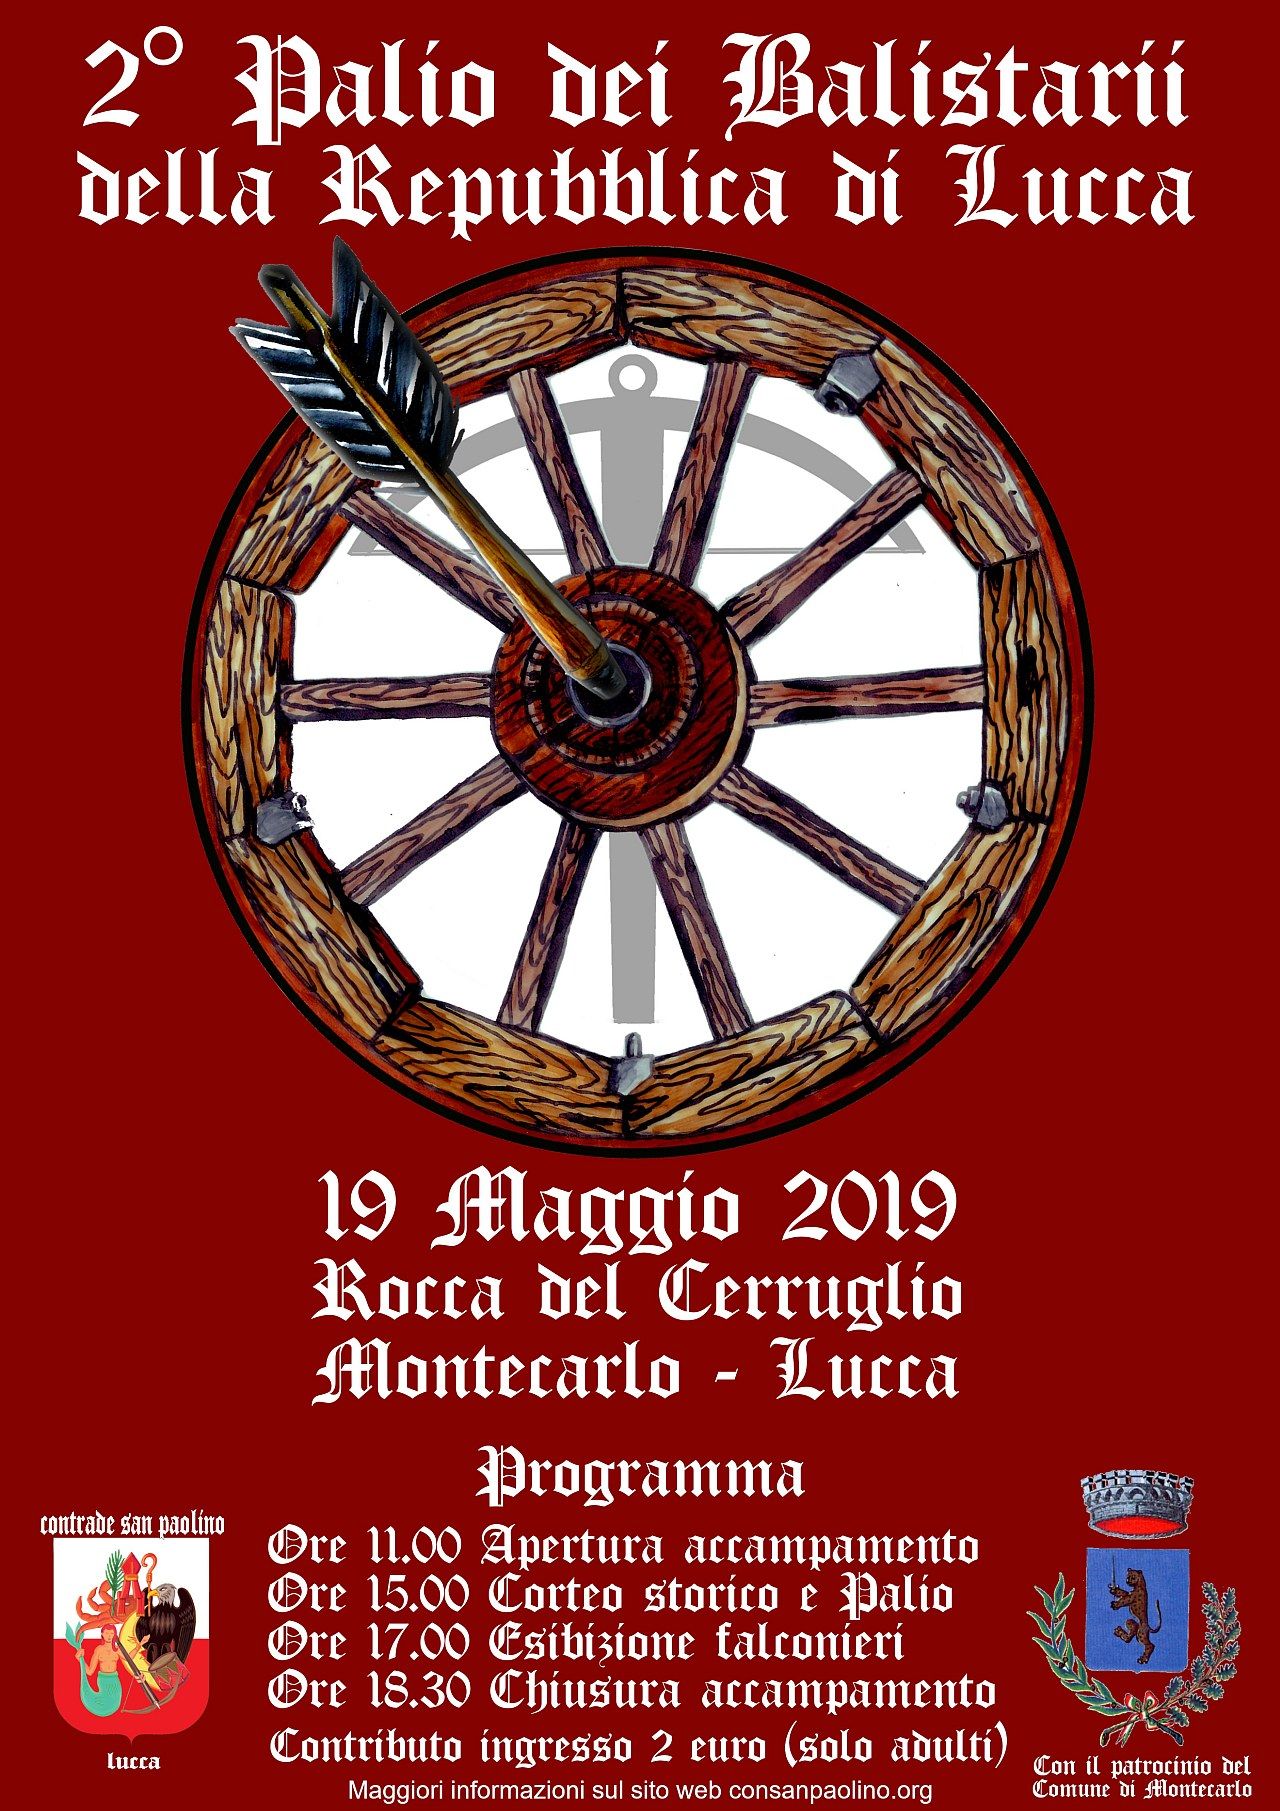
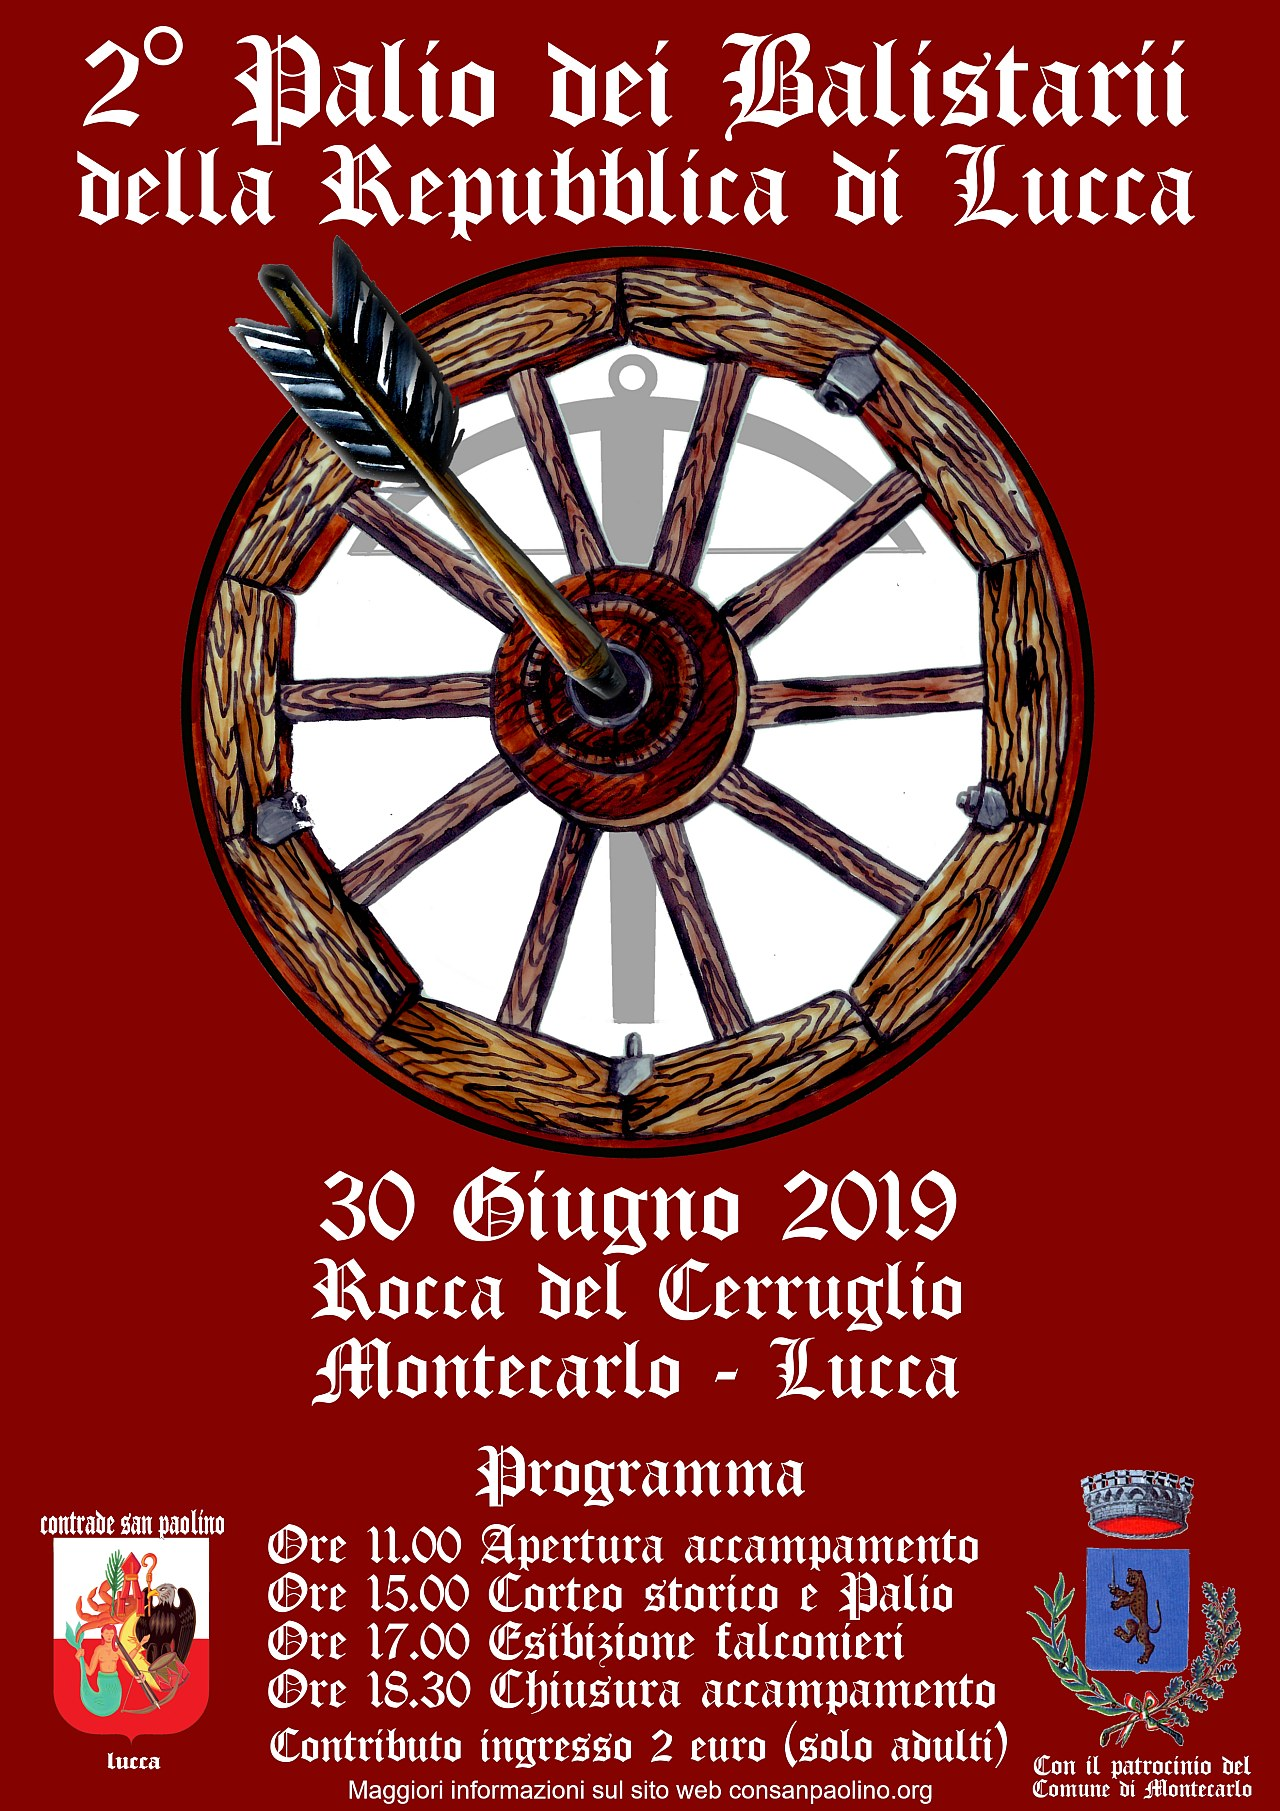
update locandina palio

Changed region(s): [[0.25, 0.6184, 0.5312, 0.7112]]

diff --git a/_posts/2019-04-25-palio-balistarii-montecarlo.md b/_posts/2019-04-25-palio-balistarii-montecarlo.md
@@ -14,9 +14,16 @@ fascino: la Fortezza di Montecarlo.
 
 <!-- more -->
 
-**ATTENZIONE**: l'evento è stato [posticipato causa maltempo](/2019/rinvio-palio-balistarii-repubblica-lucca).
+**ATTENZIONE**: l'evento è stato [posticipato causa maltempo al 30 Giugno](/2019/rinvio-palio-balistarii-repubblica-lucca).
 
-In programma per il 19 Maggio, all’interno dei giardini della Fortezza, la seconda edizione del **Palio dei Balistarii della Repubblica di Lucca** vedrà cimentarsi in un duello a colpi di verretta i balestrieri dell’associazione suddivisi per contrada: *Falcone*, *Granchio*, *Luna* e *Sirena*. Il miglior tiratore si aggiudicherà la vittoria e alla relativa contrada sarà assegnato il Palio dipinto da [Roberto Pasquinelli](/2019/roberto-pasquinelli-autore-palio-repubblica-lucca), grazie al contributo del *Comune di Montecarlo*.
+Inizialmente in programma per il 19 Maggio e rimandato per maltempo al **30
+Giugno**, all’interno dei giardini della Fortezza, la seconda edizione del
+**Palio dei Balistarii della Repubblica di Lucca** vedrà cimentarsi in un duello
+a colpi di verretta i balestrieri dell’associazione suddivisi per contrada:
+*Falcone*, *Granchio*, *Luna* e *Sirena*. Il miglior tiratore si aggiudicherà la
+vittoria e alla relativa contrada sarà assegnato il Palio dipinto da [Roberto
+Pasquinelli](/2019/roberto-pasquinelli-autore-palio-repubblica-lucca), grazie al
+contributo del *Comune di Montecarlo*.
 
 Alla manifestazione partecipano i seguenti gruppi:
 
